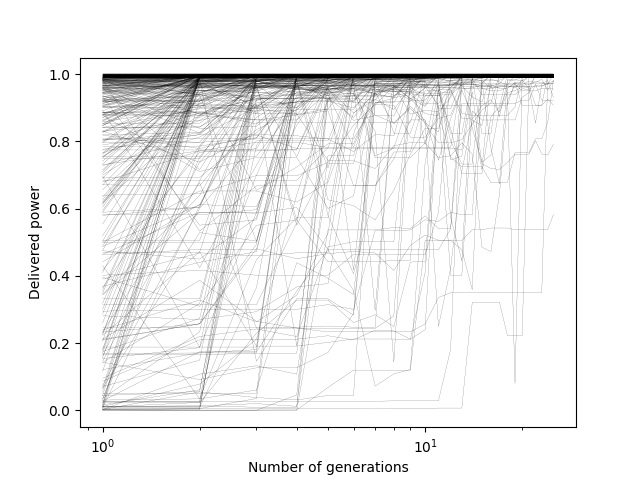
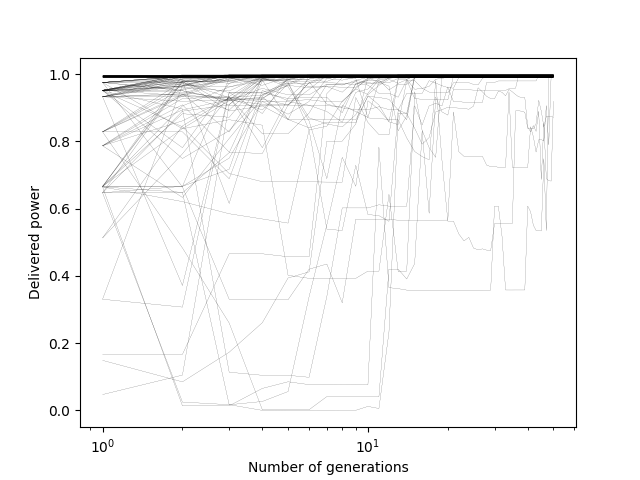
Substituído ag por ee.

Changed region(s): [[0.1562, 0.125, 0.875, 0.875], [0.6562, 0.9062, 0.6875, 0.9375], [0.5625, 0.9062, 0.5938, 0.9375]]

diff --git a/index.py b/index.py
@@ -1,124 +1,57 @@
 from simulation import simulate
-from numpy.random import randint, rand, choice
-from numpy import divide, sum
-from functools import reduce
+from numpy.random import randint, rand, choice, randn
+from numpy import divide, sum, clip
  
-# define range for resistor
 r_range = [-2, 5]
-# define range for input
 bounds = [r_range, r_range]
-# define the total iterations
 target = 0.99
-# bits per variable
-n_bits = 8
-# maximum numer of iterations
-n_iter_max = 25
-# number of simulations
-n_simulations = 5
-
-# decode bitstring to numbers
-def decode(bounds, n_bits, bitstring):
-	decoded = list()
-	largest = 2**n_bits-1
-	for i in range(len(bounds)):
-		# extract the substring
-		start, end = i * n_bits, (i + 1) * n_bits
-		# convert bitarray to integer
-		integer = reduce(lambda a, b: a * 2 + b, bitstring[start:end])
-		# scale integer to desired range
-		value = bounds[i][0] + (integer/largest) * (bounds[i][1] - bounds[i][0])
-		# store
-		decoded.append(value)
-	return decoded
+n_iter_max = 50
+n_simulations = 2
  
-# tournament selection
 def tournament_selection(pop, scores):
-	# first random selection
-	selection_ix = randint(len(pop))
-	for ix in randint(0, len(pop), 2):
-		# check if better (e.g. perform a tournament)
-		if scores[ix] > scores[selection_ix]:
-			selection_ix = ix
-	return pop[selection_ix]
+	ia, ib = randint(len(pop), size=2)
+	return pop[ia] if scores[ia] > scores[ib] else pop[ib]
 
-# roulette selection
 def roulette_selection(pop, scores):
-	# first normalize scores
-	scores = divide(scores, sum(scores))
-	# then choose a random index based on the probability vector
-	selection_ix = choice(len(pop), p=scores)
-	# finally returns the element from that index
-	return pop[selection_ix]
+	return pop[choice(len(pop), p=divide(scores, sum(scores)))]
  
-# crossover two parents to create two children
 def crossover(p1, p2, r_cross):
-	# children are copies of parents by default
 	c1, c2 = p1.copy(), p2.copy()
-	# check for recombination
-	if rand() < r_cross:
-		# select crossover point that is not on the end of the string
-		pt = randint(1, len(p1)-2)
-		# perform crossover
-		c1 = p1[:pt] + p2[pt:]
-		c2 = p2[:pt] + p1[pt:]
+	for i in range(len(c1)):
+		if rand() < r_cross:
+			alpha = rand()
+			c1[i] = p1[i] * alpha + p2[i] * (1 - alpha)
+			c2[i] = p1[i] * (1 - alpha) + p2[i] * alpha
 	return [c1, c2]
  
-# mutation operator
-def mutation(bitstring, r_mut):
-	for i in range(len(bitstring)):
-		# check for a mutation
+def mutation(number, r_mut, bounds):
+	for i in range(len(number)):
 		if rand() < r_mut:
-			# flip the bit
-			bitstring[i] = 1 - bitstring[i]
+			number[i] = clip(number[i] + randn(), a_min=bounds[i][0], a_max=bounds[i][1])
  
-# genetic algorithm
-def genetic_algorithm(objective, selection_alg, bounds, n_bits, target, n_pop, r_cross, r_mut):
-	# number of generations needed to find the answer
+def genetic_algorithm(objective, selection_alg, bounds, target, n_pop, r_cross, r_mut):
 	n_iter = 0
-	# history of best scores
 	scores_history = list()
-	# initial population of random bitstring
-	pop = [randint(0, 2, n_bits*len(bounds)).tolist() for _ in range(n_pop)]
-	# keep track of best solution
+	pop = [[randint(b[0], b[1]) for b in bounds] for _ in range(n_pop)]
 	best = pop[0]
-	best_eval = objective(decode(bounds, n_bits, pop[0]))
-	# enumerate generations
-	while best_eval < target and n_iter < n_iter_max:
+	best_score = objective(pop[0])
+	while best_score < target and n_iter < n_iter_max:
 		n_iter += 1
-		# decode population
-		decoded = [decode(bounds, n_bits, p) for p in pop]
-		# evaluate all candidates in the population
-		scores = [objective(d) for d in decoded]
-		# check for new best solution
-		scores_best = max(scores)
-		scores_history.append(scores_best)
-		if scores_best > best_eval:
-			i = scores.index(scores_best)
-			best, best_eval = pop[i], scores[i]
-		# select parents
-		selected = [selection_alg(pop, scores) for _ in range(n_pop)]
-		# create the next generation
-		children = list()
+		scores = [objective(d) for d in pop]
+		generation_best_score = max(scores)
+		if generation_best_score > best_score:
+			i = scores.index(generation_best_score)
+			best, best_score = pop[i], scores[i]
+		scores_history.append(generation_best_score)
 		for i in range(0, n_pop, 2):
-			# get selected parents in pairs
-			p1, p2 = selected[i], selected[i+1]
-			# crossover and mutation
-			for c in crossover(p1, p2, r_cross):
-				# mutation
-				mutation(c, r_mut)
-				# store for next generation
-				children.append(c)
-		# replace population
-		pop = children
-	best_decoded = decode(bounds, n_bits, best)
-	return [best_decoded, best_eval, scores_history]
+			p1, p2 = selection_alg(pop, scores), selection_alg(pop, scores)
+			c1, c2 = crossover(p1, p2, r_cross)
+			mutation(c1, r_mut, bounds)
+			mutation(c2, r_mut, bounds)
+			pop[i], pop[i+1] = c1, c2
+	return [best, best_score, scores_history]
 
-# perform the genetic algorithm search
 def main(selection_alg_name, n_pop, r_cross, r_mut):
-	r_mut /= float(n_bits) * len(bounds)
+	r_mut /= len(bounds)
 	selection_alg = tournament_selection if selection_alg_name == 'tournament' else roulette_selection
-	results = list()
-	for _ in range(n_simulations):
-		result = genetic_algorithm(simulate, selection_alg, bounds, n_bits, target, n_pop, r_cross, r_mut)
-		results.append(result)
-	return results
+	return [genetic_algorithm(simulate, selection_alg, bounds, target, n_pop, r_cross, r_mut) for _ in range(n_simulations)]

diff --git a/sim_and_plots.py b/sim_and_plots.py
@@ -1,36 +1,36 @@
 from index import main
 import matplotlib.pyplot as plt
 import numpy as np
-from statistics import mean
 
+n_iter_max = 50
 r_cross_opts = (0.6, 0.7, 0.8, 0.9, 1)
-r_mut_opts = (0.5, 1, 1.5, 2)
-results_pop_4_roulette = list()
-results_pop_4_tournament = list()
-results_pop_8_roulette = list()
-results_pop_8_tournament = list()
+r_mut_opts = (0.1, 0.4, 0.7, 1)
+results_pop_10_roulette = list()
+results_pop_10_tournament = list()
+results_pop_20_roulette = list()
+results_pop_20_tournament = list()
 
 for r_cross in r_cross_opts:
-  row_results_pop_4_roulette = list()
-  row_results_pop_4_tournament = list()
-  row_results_pop_8_roulette = list()
-  row_results_pop_8_tournament = list()
+  row_results_pop_10_roulette = list()
+  row_results_pop_10_tournament = list()
+  row_results_pop_20_roulette = list()
+  row_results_pop_20_tournament = list()
 
   for r_mut in r_mut_opts:
     print((r_cross, r_mut))
-    row_results_pop_4_roulette.append(main('roulette', 4, r_cross, r_mut))
-    row_results_pop_4_tournament.append(main('tournament', 4, r_cross, r_mut))
-    row_results_pop_8_roulette.append(main('roulette', 8, r_cross, r_mut))
-    row_results_pop_8_tournament.append(main('tournament', 8, r_cross, r_mut))
+    row_results_pop_10_roulette.append(main('roulette', 10, r_cross, r_mut))
+    row_results_pop_10_tournament.append(main('tournament', 10, r_cross, r_mut))
+    row_results_pop_20_roulette.append(main('roulette', 20, r_cross, r_mut))
+    row_results_pop_20_tournament.append(main('tournament', 20, r_cross, r_mut))
 
-  results_pop_4_roulette.append(row_results_pop_4_roulette)
-  results_pop_4_tournament.append(row_results_pop_4_tournament)
-  results_pop_8_roulette.append(row_results_pop_8_roulette)
-  results_pop_8_tournament.append(row_results_pop_8_tournament)
+  results_pop_10_roulette.append(row_results_pop_10_roulette)
+  results_pop_10_tournament.append(row_results_pop_10_tournament)
+  results_pop_20_roulette.append(row_results_pop_20_roulette)
+  results_pop_20_tournament.append(row_results_pop_20_tournament)
 
 X, Y = np.meshgrid(r_mut_opts, r_cross_opts)
 
-def plot_colormesh(name, func, vmax = 25):
+def plot_colormesh(name, func, vmax = n_iter_max):
   calc_z = lambda results: np.array([[func([len(sim_result[2]) for sim_result in col]) for col in row] for row in results])
   fig, ax = plt.subplots(2, 2, sharex=True, sharey=True)
 
@@ -38,30 +38,29 @@ def plot_colormesh(name, func, vmax = 25):
   fig.set_figheight(12)
 
   meshopts = {'cmap': 'coolwarm', 'vmin': 0, 'vmax': vmax}
-  surf = ax[0][0].pcolormesh(X, Y, calc_z(results_pop_4_roulette), **meshopts)
+  surf = ax[0][0].pcolormesh(X, Y, calc_z(results_pop_10_roulette), **meshopts)
   ax[0][0].set_xlabel('mutation rate')
   ax[0][0].set_ylabel('crossover rate')
-  ax[0][0].set_title('Population=4 (Roulette)')
+  ax[0][0].set_title('Population=10 (Roulette)')
 
-  surf = ax[0][1].pcolormesh(X, Y, calc_z(results_pop_4_tournament), **meshopts)
+  surf = ax[0][1].pcolormesh(X, Y, calc_z(results_pop_10_tournament), **meshopts)
   ax[0][1].set_xlabel('mutation rate')
   ax[0][1].set_ylabel('crossover rate')
-  ax[0][1].set_title('Population=4 (Tournament)')
+  ax[0][1].set_title('Population=10 (Tournament)')
 
-  surf = ax[1][0].pcolormesh(X, Y, calc_z(results_pop_8_roulette), **meshopts)
+  surf = ax[1][0].pcolormesh(X, Y, calc_z(results_pop_20_roulette), **meshopts)
   ax[1][0].set_xlabel('mutation rate')
   ax[1][0].set_ylabel('crossover rate')
-  ax[1][0].set_title('Population=8 (Roulette)')
+  ax[1][0].set_title('Population=20 (Roulette)')
 
-  surf = ax[1][1].pcolormesh(X, Y, calc_z(results_pop_8_tournament), **meshopts)
+  surf = ax[1][1].pcolormesh(X, Y, calc_z(results_pop_20_tournament), **meshopts)
   ax[1][1].set_xlabel('mutation rate')
   ax[1][1].set_ylabel('crossover rate')
-  ax[1][1].set_title('Population=8 (Tournament)')
+  ax[1][1].set_title('Population=20 (Tournament)')
 
   fig.colorbar(surf, ax=ax, orientation='horizontal', pad=0.07)
   plt.savefig(f'fig/{name}.png')
 
-plot_colormesh('mean_colors', mean)
 plot_colormesh('max_colors', max)
 plot_colormesh('min_colors', min)
 
@@ -71,20 +70,20 @@ quant_normal = 0
 quant_primeira = 0
 quant_nunca = 0
 
-for result in (results_pop_4_roulette, results_pop_4_tournament, results_pop_8_roulette, results_pop_8_tournament):
+for result in (results_pop_10_roulette, results_pop_10_tournament, results_pop_20_roulette, results_pop_20_tournament):
   for row in result:
     for col in row:
       for sim_result in col:
-        scores_history = sim_result[2][0:25]
+        scores_history = sim_result[2]
         if len(scores_history) == 0:
           quant_primeira += 1
           continue
         if sim_result[1] < 0.99:
           quant_nunca += 1
-        if len(scores_history) < 25:
+        if len(scores_history) < n_iter_max:
           last_score = scores_history[len(scores_history) - 1]
-          scores_history += [last_score] * (25 - len(scores_history))
-        plt.plot(range(1,26), scores_history, linewidth=0.1, color='black')
+          scores_history += [last_score] * (n_iter_max - len(scores_history))
+        plt.plot(range(1,n_iter_max+1), scores_history, linewidth=0.1, color='black')
         quant_normal += 1
 plt.xlabel('Number of generations')
 plt.ylabel('Delivered power')
